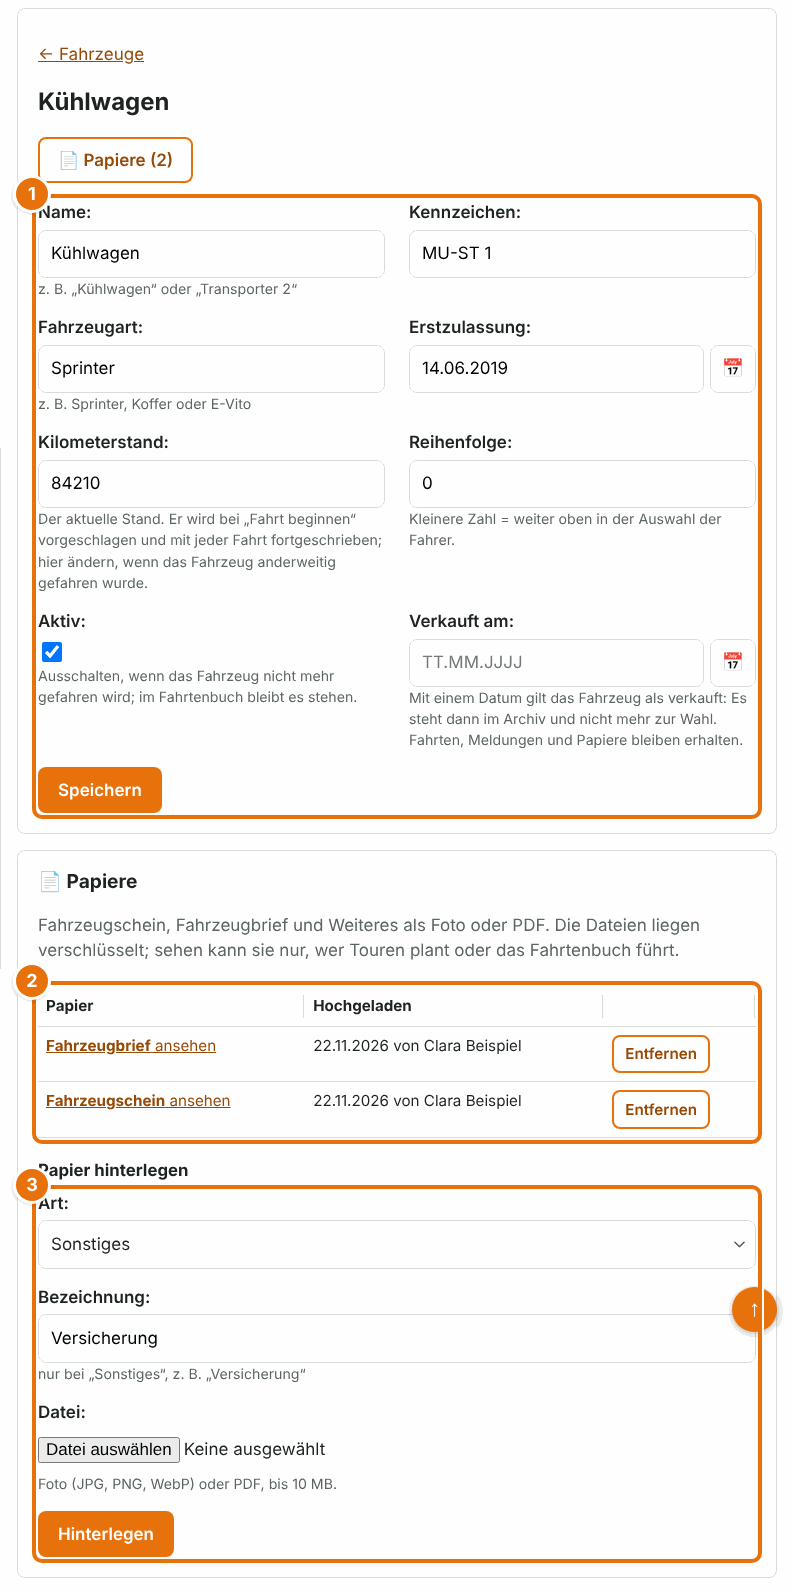
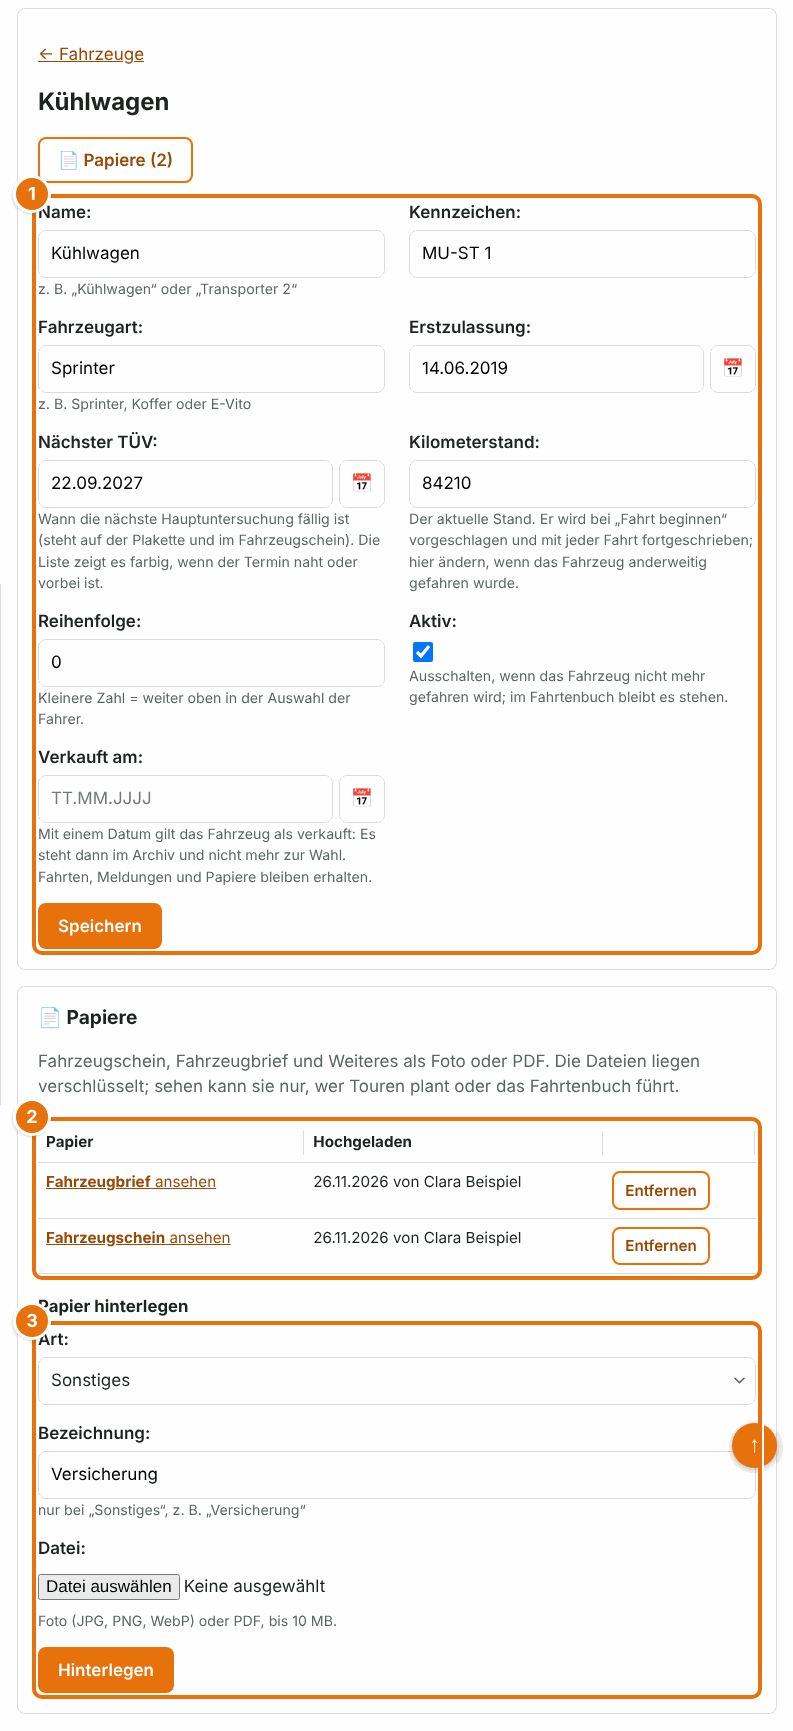
Touren: nächster TÜV-Termin am Fahrzeug und in der Fahrzeugliste
- Bei jedem Fahrzeug lässt sich jetzt der nächste TÜV-Termin eintragen (Touren → Einrichten → Fahrzeug antippen).
- Die Fahrzeugliste zeigt ihn in einer eigenen Spalte und kennzeichnet ihn 60 Tage vorher als „bald fällig“ und danach als „abgelaufen“.

Claude-Session: https://claude.ai/code/session_01WjR9zy7tEqNCnFqv8EaKLW

diff --git a/apps/touren/templates/touren/_fahrzeug_zeile.html b/apps/touren/templates/touren/_fahrzeug_zeile.html
@@ -3,7 +3,8 @@
   <td data-titel="Fahrzeug"><a href="{% url 'touren:fahrzeug' f.pk %}"><strong>{{ f.name }}</strong></a>{% if not f.aktiv and not archiv %} <span class="marke-warnung">ausgeschaltet</span>{% endif %}</td>
   <td data-titel="Kennzeichen">{{ f.kennzeichen|default:"–" }}</td>
   <td data-titel="Fahrzeugart">{{ f.typ|default:"–" }}</td>
-  {% if archiv %}<td data-titel="Verkauft am">{{ f.verkauft_am|date:"d.m.Y" }}</td>{% else %}<td data-titel="Erstzulassung">{{ f.erstzulassung|date:"d.m.Y"|default:"–" }}</td>{% endif %}
+  {% if archiv %}<td data-titel="Verkauft am">{{ f.verkauft_am|date:"d.m.Y" }}</td>{% else %}<td data-titel="Erstzulassung">{{ f.erstzulassung|date:"d.m.Y"|default:"–" }}</td>
+  <td data-titel="Nächster TÜV">{% if f.tuev_bis %}{{ f.tuev_bis|date:"d.m.Y" }}{% if f.tuev_stand == "abgelaufen" %} <span class="marke-warnung">abgelaufen</span>{% elif f.tuev_stand == "bald" %} <span class="marke-warnung">bald fällig</span>{% endif %}{% else %}–{% endif %}</td>{% endif %}
   <td data-titel="Kilometerstand" class="zahl">{% if f.kilometerstand is None %}–{% else %}{{ f.kilometerstand }} km{% endif %}</td>
   <td data-titel="Papiere">{% if f.papiere %}<a href="{% url 'touren:fahrzeug' f.pk %}#papiere"><span class="marke-ok">📄 {{ f.papiere }} hinterlegt</span></a>{% else %}<a href="{% url 'touren:fahrzeug' f.pk %}#papiere">hinterlegen</a>{% endif %}</td>
 </tr>

diff --git a/apps/touren/templates/hilfe/touren.html b/apps/touren/templates/hilfe/touren.html
@@ -154,8 +154,9 @@
     verschickte Mails lassen sich nicht zurückholen. Einen einzelnen Lieferschein löschen Sie wie bisher in der
     Liste der Lieferscheine.</li>
   <li>Die <strong>Fahrzeuge</strong> stehen unter „Touren → Einrichten: Warengruppen, Fahrzeuge, Zentrale“ als Liste
-    (wer Touren planen darf): Name, Kennzeichen, Fahrzeugart, Erstzulassung, Kilometerstand und ob Papiere hinterlegt
-    sind. „＋ Neues Fahrzeug“ legt eins an; ein Fahrzeug <strong>antippen</strong> öffnet seine Seite. Ohne Fahrzeuge
+    (wer Touren planen darf): Name, Kennzeichen, Fahrzeugart, Erstzulassung, nächster TÜV, Kilometerstand und ob Papiere
+    hinterlegt sind. Den <strong>nächsten TÜV</strong> tragen Sie auf der Seite des Fahrzeugs ein; die Liste
+    kennzeichnet ihn 60 Tage vorher als „bald fällig“ und danach als „abgelaufen“. „＋ Neues Fahrzeug“ legt eins an; ein Fahrzeug <strong>antippen</strong> öffnet seine Seite. Ohne Fahrzeuge
     wird beim Beginn einer Fahrt nur der Kilometerstand gefragt.</li>
   <li>Auf der Seite des Fahrzeugs ändern Sie die Angaben. <strong>Kilometerstand:</strong> Tragen Sie den Anfangsstand
     ein; bintafeln schreibt ihn mit jeder Fahrt fort und schlägt ihn bei „Fahrt beginnen“ vor. Wurde das Fahrzeug

diff --git a/apps/touren/templates/touren/fahrzeug.html b/apps/touren/templates/touren/fahrzeug.html
@@ -20,6 +20,7 @@
     <dt>Kennzeichen</dt><dd>{{ fahrzeug.kennzeichen|default:"–" }}</dd>
     <dt>Fahrzeugart</dt><dd>{{ fahrzeug.typ|default:"–" }}</dd>
     <dt>Erstzulassung</dt><dd>{{ fahrzeug.erstzulassung|date:"d.m.Y"|default:"–" }}</dd>
+    <dt>Nächster TÜV</dt><dd>{% if fahrzeug.tuev_bis %}{{ fahrzeug.tuev_bis|date:"d.m.Y" }}{% if fahrzeug.tuev_stand == "abgelaufen" %} <span class="marke-warnung">abgelaufen</span>{% elif fahrzeug.tuev_stand == "bald" %} <span class="marke-warnung">bald fällig</span>{% endif %}{% else %}–{% endif %}</dd>
     <dt>Kilometerstand</dt><dd>{% if fahrzeug.kilometerstand is not None %}{{ fahrzeug.kilometerstand }} km{% else %}–{% endif %}</dd>
     {% if fahrzeug.verkauft_am %}<dt>Verkauft am</dt><dd>{{ fahrzeug.verkauft_am|date:"d.m.Y" }}</dd>{% endif %}
   </dl>

diff --git a/apps/touren/templates/touren/einrichten.html b/apps/touren/templates/touren/einrichten.html
@@ -78,7 +78,7 @@
   <p><a class="knopf" href="{% url 'touren:fahrzeug_neu' %}">＋ Neues Fahrzeug</a></p>
   {% if fahrzeuge %}
   <div class="tabelle-rahmen"><table class="tabelle" id="fahrzeuge-tabelle">
-    <thead><tr><th>Fahrzeug</th><th>Kennzeichen</th><th>Fahrzeugart</th><th>Erstzulassung</th><th class="zahl">Kilometerstand</th><th>Papiere</th></tr></thead>
+    <thead><tr><th>Fahrzeug</th><th>Kennzeichen</th><th>Fahrzeugart</th><th>Erstzulassung</th><th>Nächster TÜV</th><th class="zahl">Kilometerstand</th><th>Papiere</th></tr></thead>
     <tbody>{% for f in fahrzeuge %}{% include "touren/_fahrzeug_zeile.html" %}{% endfor %}</tbody>
   </table></div>
   {% else %}<p class="hinweis">Noch kein Fahrzeug angelegt.</p>{% endif %}

diff --git a/apps/touren/models.py b/apps/touren/models.py
@@ -240,6 +240,9 @@ class Tourstart(models.Model):
         return f"{self.tour} am {self.datum:%d.%m.%Y}"
 
 
+TUEV_BALD_TAGE = 60  # so lange vorher gilt der TÜV eines Fahrzeugs als „bald fällig“
+
+
 class Fahrzeug(models.Model):
     """Ein Fahrzeug der Tafel, zur Wahl beim Beginn einer Fahrt (ADR 0151)."""
 
@@ -249,6 +252,11 @@ class Fahrzeug(models.Model):
     typ = models.CharField("Fahrzeugart", max_length=60, blank=True,
                            help_text="z. B. Sprinter, Koffer oder E-Vito")  # fmt: skip
     erstzulassung = models.DateField("Erstzulassung", null=True, blank=True)
+    tuev_bis = models.DateField(
+        "Nächster TÜV", null=True, blank=True,
+        help_text="Wann die nächste Hauptuntersuchung fällig ist (steht auf der Plakette und im "
+        "Fahrzeugschein). Die Liste zeigt es farbig, wenn der Termin naht oder vorbei ist.",
+    )  # fmt: skip
     verkauft_am = models.DateField(
         "Verkauft am", null=True, blank=True,
         help_text="Mit einem Datum gilt das Fahrzeug als verkauft: Es steht dann im Archiv und "
@@ -276,6 +284,16 @@ class Fahrzeug(models.Model):
             if kwargs.get("update_fields") is not None:
                 kwargs["update_fields"] = {*kwargs["update_fields"], "aktiv"}
         super().save(*args, **kwargs)
+
+    @property
+    def tuev_stand(self) -> str:
+        """„abgelaufen“, „bald“ (in den nächsten 60 Tagen) oder leer."""
+        if not self.tuev_bis:
+            return ""
+        heute = timezone.localdate()
+        if self.tuev_bis < heute:
+            return "abgelaufen"
+        return "bald" if (self.tuev_bis - heute).days <= TUEV_BALD_TAGE else ""
 
 
 class FahrzeugDokument(models.Model):

diff --git a/tests/test_touren_fahrten.py b/tests/test_touren_fahrten.py
@@ -554,3 +554,26 @@ def test_verkauftes_fahrzeug_bleibt_ausgeschaltet_beim_fortschreiben(lage):
     wagen.save(update_fields=["verkauft_am", "kilometerstand"])
     wagen.refresh_from_db()
     assert not wagen.aktiv and wagen.kilometerstand == 500
+
+
+def test_naechster_tuev_am_fahrzeug_und_in_der_liste(admin_client):
+    from django.utils import timezone
+
+    heute = timezone.localdate()
+    bald, spaeter = heute + dt.timedelta(days=30), heute + dt.timedelta(days=400)
+    daten = {"name": "Kühlwagen", "reihenfolge": "1", "aktiv": "on",
+             "tuev_bis": f"{spaeter:%d.%m.%Y}"}  # fmt: skip
+    assert admin_client.post(reverse("touren:fahrzeug_neu"), daten).status_code == 302
+    wagen = Fahrzeug.objects.get(name="Kühlwagen")
+    assert wagen.tuev_bis == spaeter and wagen.tuev_stand == ""
+    Fahrzeug.objects.create(name="Bald", tuev_bis=bald)
+    Fahrzeug.objects.create(name="Vorbei", tuev_bis=heute - dt.timedelta(days=1))
+    ohne = Fahrzeug.objects.create(name="Ohne")
+    assert ohne.tuev_stand == ""
+    assert Fahrzeug.objects.get(name="Bald").tuev_stand == "bald"
+    assert Fahrzeug.objects.get(name="Vorbei").tuev_stand == "abgelaufen"
+    liste = admin_client.get(reverse("touren:einrichten")).content.decode()
+    assert "<th>Nächster TÜV</th>" in liste and f"{spaeter:%d.%m.%Y}" in liste
+    assert liste.count("bald fällig") == 1 and liste.count(">abgelaufen<") == 1
+    seite = admin_client.get(reverse("touren:fahrzeug", args=[wagen.pk])).content.decode()
+    assert 'name="tuev_bis"' in seite and f"{spaeter:%d.%m.%Y}" in seite

diff --git a/tests/e2e/test_hilfe_bilder_module.py b/tests/e2e/test_hilfe_bilder_module.py
@@ -1376,6 +1376,7 @@ def test_hilfe_bild_touren_fahrzeug(angemeldet, admin, muster):
     wagen = Fahrzeug.objects.create(
         name="Kühlwagen", kennzeichen="MU-ST 1", typ="Sprinter", kilometerstand=84210,
         erstzulassung=dt.date(2019, 6, 14),
+        tuev_bis=timezone.localdate() + dt.timedelta(days=300),
     )  # fmt: skip
     for art in ("schein", "brief"):
         FahrzeugDokument.objects.create(
@@ -1384,7 +1385,8 @@ def test_hilfe_bild_touren_fahrzeug(angemeldet, admin, muster):
             hochgeladen_von_name="Clara Beispiel",
         )  # fmt: skip
     Fahrzeug.objects.create(name="Stromer", kennzeichen="MU-ST 7", typ="E-Vito", reihenfolge=2,
-                            kilometerstand=12870, erstzulassung=dt.date(2024, 3, 1))  # fmt: skip
+                            kilometerstand=12870, erstzulassung=dt.date(2024, 3, 1),
+                            tuev_bis=timezone.localdate() + dt.timedelta(days=40))  # fmt: skip
     Fahrzeug.objects.create(name="Alter Transporter", kennzeichen="MU-ST 3", typ="Koffer",
                             reihenfolge=3, kilometerstand=231400,
                             erstzulassung=dt.date(2011, 5, 2),

diff --git a/apps/touren/migrations/0028_fahrzeug_tuev.py b/apps/touren/migrations/0028_fahrzeug_tuev.py
@@ -1,0 +1,23 @@
+# Generated by Django 5.2.19 on 2026-11-26 09:12
+
+from django.db import migrations, models
+
+
+class Migration(migrations.Migration):
+
+    dependencies = [
+        ("touren", "0027_station_mehrfach"),
+    ]
+
+    operations = [
+        migrations.AddField(
+            model_name="fahrzeug",
+            name="tuev_bis",
+            field=models.DateField(
+                blank=True,
+                help_text="Wann die nächste Hauptuntersuchung fällig ist (steht auf der Plakette und im Fahrzeugschein). Die Liste zeigt es farbig, wenn der Termin naht oder vorbei ist.",
+                null=True,
+                verbose_name="Nächster TÜV",
+            ),
+        ),
+    ]

diff --git a/apps/touren/forms.py b/apps/touren/forms.py
@@ -314,10 +314,12 @@ class FahrzeugForm(forms.ModelForm):
 
     class Meta:
         model = Fahrzeug
-        fields = ["name", "kennzeichen", "typ", "erstzulassung", "kilometerstand", "reihenfolge",
+        fields = ["name", "kennzeichen", "typ", "erstzulassung", "tuev_bis", "kilometerstand",
+                  "reihenfolge",
                   "aktiv", "verkauft_am"]  # fmt: skip
         widgets = {
             "erstzulassung": DatumEingabe(),
+            "tuev_bis": DatumEingabe(),
             "verkauft_am": DatumEingabe(),
             "typ": forms.TextInput(attrs={"list": "fz-arten", "autocomplete": "off"}),
         }

diff --git a/CLAUDE.md b/CLAUDE.md
@@ -476,7 +476,8 @@ Django-Kenntnisse nachvollziehen kann: was wurde geändert, warum, wie testet ma
   das Recht `touren.besetzung` hat; Änderung als `Ersatz` im Fahrerplan); eigene `fahrtage` einer
   Tour aus dem Fahrerplan grenzen ein („Montag Nordtour“ ↔ „Nordtour“,
   `importieren_touren.wochentag_im_namen()`).
-  Fahrzeuge (ADR 0160): `Fahrzeug.typ` frei mit Vorschlägen, `erstzulassung`; Papiere als
+  Fahrzeuge (ADR 0160): `Fahrzeug.typ` frei mit Vorschlägen, `erstzulassung`, nächster TÜV
+  `tuev_bis` (`tuev_stand`: bald fällig ab 60 Tagen vorher / abgelaufen, in Liste und Seite); Papiere als
   `FahrzeugDokument` (verschlüsselt über `privatdateien`, sehen mit `touren.planen` oder
   `touren.fahrten`, ändern nur mit `touren.planen`). Unter „Einrichten“ nur die Liste; anlegen
   und ändern je Fahrzeug auf eigener Seite (`views_fahrten.fahrzeug`/`fahrzeug_neu`, `FahrzeugForm`).
